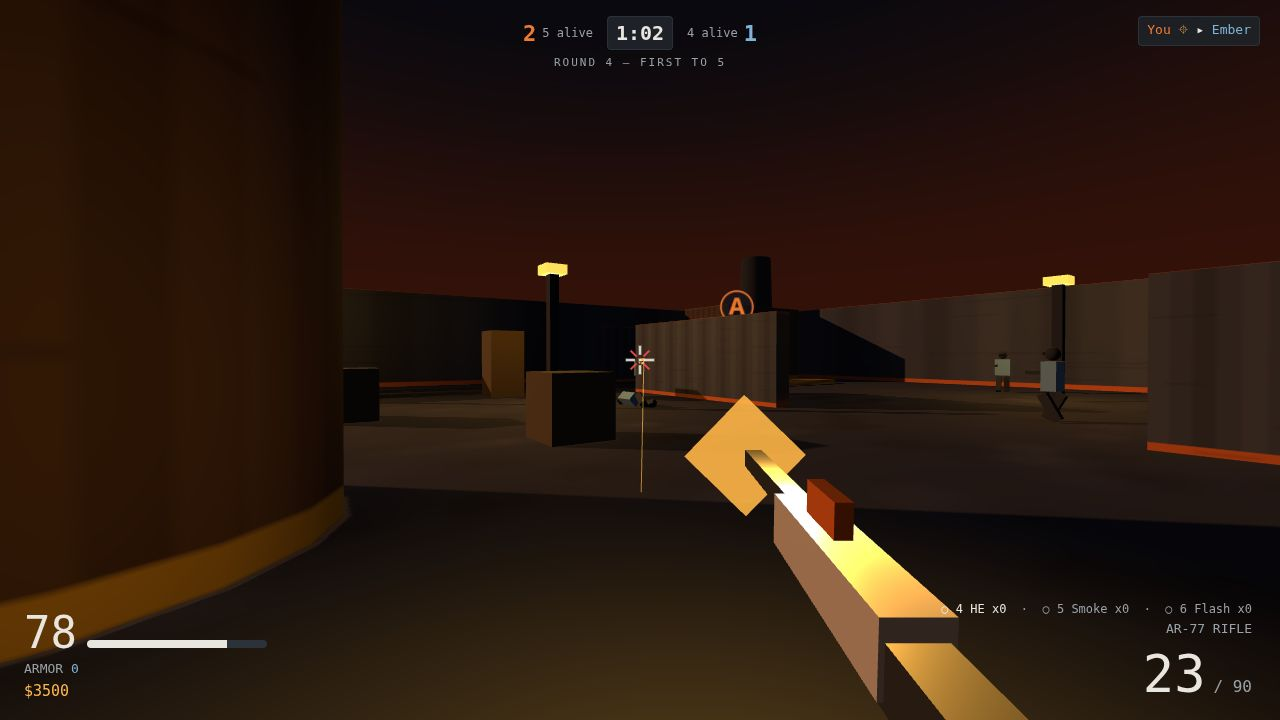
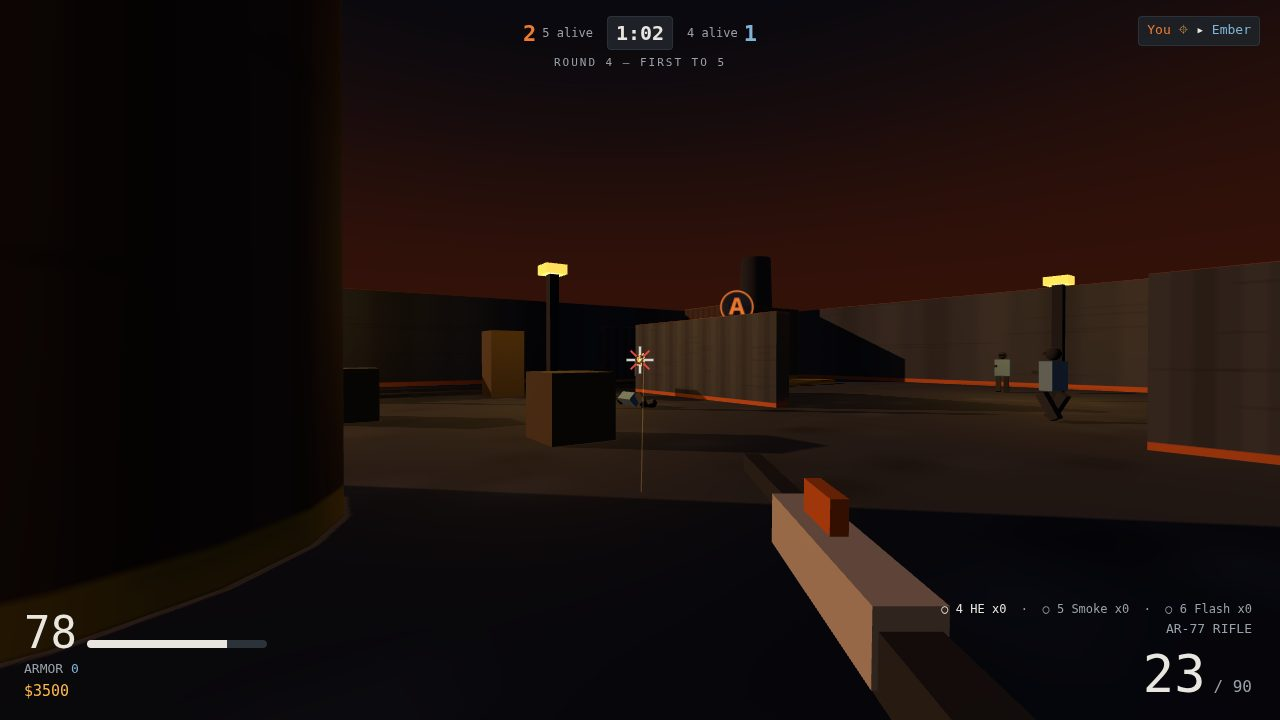
Fix play shot: move staged teammate out of camera lane, let muzzle flash decay before freeze; re-render screenshots

diff --git a/game/src/main.js b/game/src/main.js
@@ -773,7 +773,7 @@ function runShot(name) {
     defs[1].position.set(14, 0, -12);
     defs[2].position.set(16, 0, 2);
     const atks = bots.bots.filter((b) => b.team === 'atk');
-    atks[0].position.set(-2, 0, 3);
+    atks[0].position.set(-7, 0, 11); // Vanguard behind-left, clear of the camera lane.
     atks[0].yaw = -Math.PI / 2;
     defs[0].yaw = Math.PI / 2;
     defs[1].yaw = Math.PI / 2;
@@ -785,7 +785,7 @@ function runShot(name) {
     settle(4);
     aimAt(new THREE.Vector3(defs[1].position.x, 1.2, defs[1].position.z));
     shootPlayer();
-    settle(2);
+    settle(4); // Let the 60 ms muzzle flash decay so the frame reads clean; tracer + hitmarker stay.
   } else if (name === 'end') {
     rounds.state.phase = 'roundEnd';
     rounds.state.phaseTime = 1;
